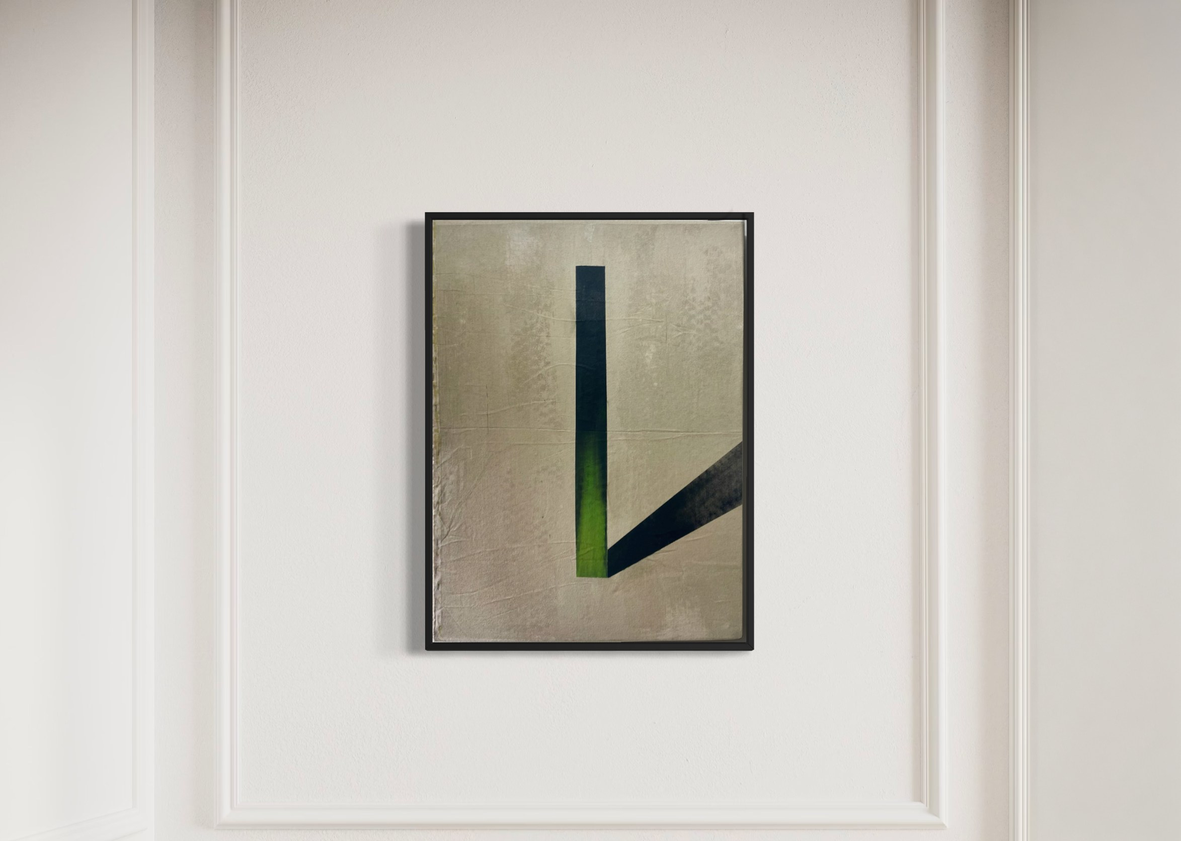
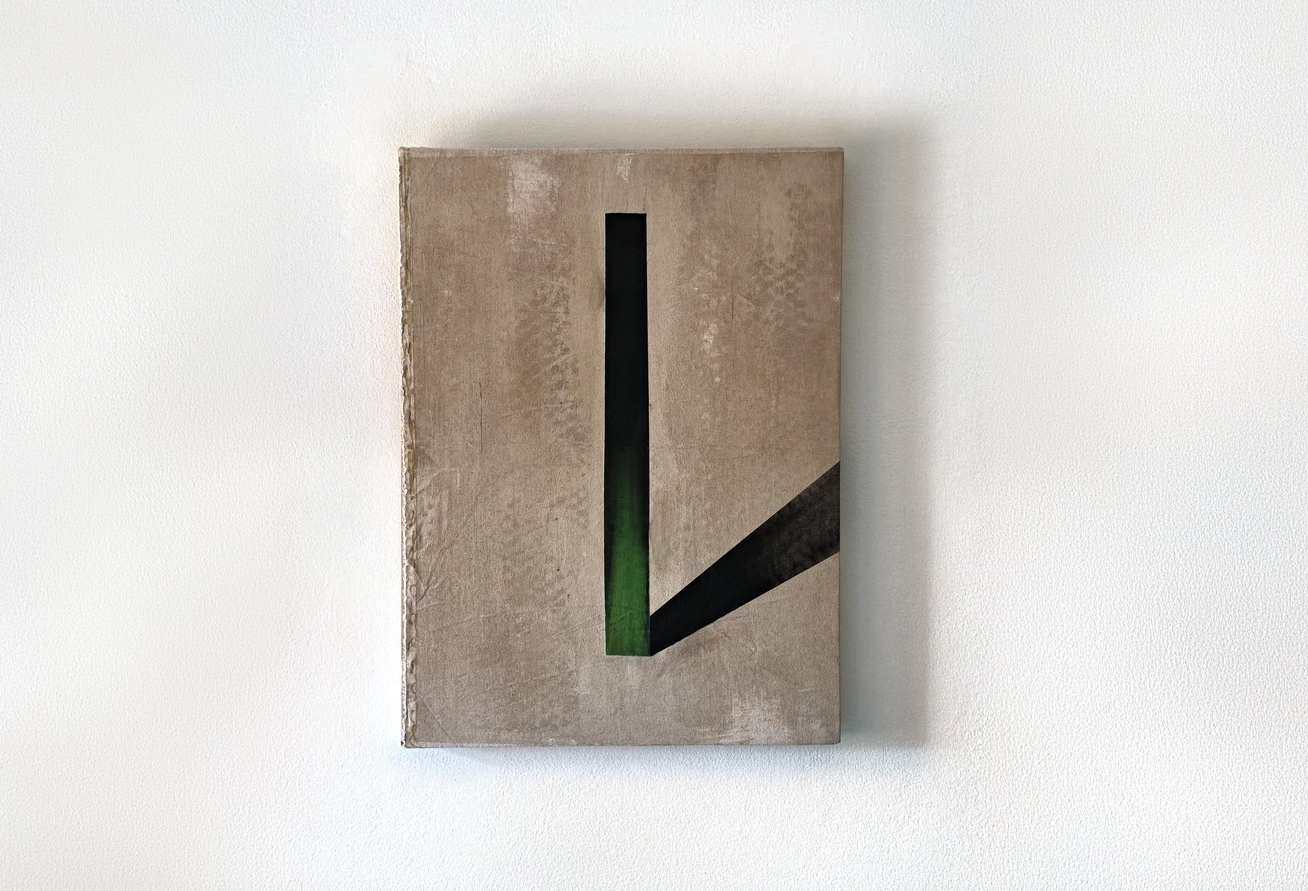
nov modifies

diff --git a/index.html b/index.html
@@ -233,8 +233,8 @@
 <section class="hero">
     <a class="hero-image" href="monolith.html" aria-label="View Monolith by Federico Boni">
         <img
-            src="images/federico-boni-home-hero.jpg?v=2"
-            alt="Monolith by Federico Boni, hanging in a living room — Featured Artist"
+            src="images/federico-boni-home-hero.jpg?v=4"
+            alt="Monolith by Federico Boni, hanging on a white gallery wall — Featured Artist"
         >
     </a>
     <div class="hero-text">
@@ -280,37 +280,21 @@
             <div class="editorial-artist-grid">
                 <!-- Artist 1 -->
                 <a
-                    href="tim-fry.html"
+                    href="sean-loch.html"
                     class="editorial-artist-card"
-                    aria-label="View Tim Fry"
+                    aria-label="View Sean Loch"
                 >
                     <div class="editorial-image">
                         <img
-                            src="images/tim-fry2.jpg"
-                            alt="Artist Tim Fry"
+                            src="images/sean-loch-home.jpg"
+                            alt="Double Dare by Sean Loch"
                         >
                     </div>
                     <h3>
-                        Tim Fry
+                        Sean Loch
                     </h3>
                 </a>
                 <!-- Artist 2 -->
-                <a
-                    href="audrey-rhoda.html"
-                    class="editorial-artist-card"
-                    aria-label="View Audrey Rhoda"
-                >
-                    <div class="editorial-image">
-                        <img
-                            src="images/audrey-rhoda2.jpg"
-                            alt="Artist Audrey Rhoda"
-                        >
-                    </div>
-                    <h3>
-                        Audrey Rhoda
-                    </h3>
-                </a>
-                <!-- Artist 3 -->
                 <a
                     href="jakey-pedro.html"
                     class="editorial-artist-card"
@@ -318,15 +302,15 @@
                 >
                     <div class="editorial-image">
                         <img
-                            src="images/jakey-pedro2.jpg"
-                            alt="Artist Jakey Pedro"
+                            src="images/jakey-pedro-home.jpg?v=2"
+                            alt="In the Garden by Jakey Pedro"
                         >
                     </div>
                     <h3>
                         Jakey Pedro
                     </h3>
                 </a>
-                <!-- Artist 4 -->
+                <!-- Artist 3 -->
                 <a
                     href="alessandro-daquila.html"
                     class="editorial-artist-card"
@@ -334,15 +318,15 @@
                 >
                     <div class="editorial-image">
                         <img
-                            src="images/alessandro-daquila2.jpg"
-                            alt="Artist Alessandro D'Aquila"
+                            src="images/alessandro-daquila-home.jpg?v=2"
+                            alt="Mailied by Alessandro D&#39;Aquila"
                         >
                     </div>
                     <h3>
                         Alessandro D'Aquila
                     </h3>
                 </a>
-                <!-- Artist 5 -->
+                <!-- Artist 4 -->
                 <a
                     href="federico-boni.html"
                     class="editorial-artist-card"
@@ -350,31 +334,15 @@
                 >
                     <div class="editorial-image">
                         <img
-                            src="images/federico-boni2.jpg"
-                            alt="Artist Federico Boni"
+                            src="images/federico-boni-home.jpg"
+                            alt="Medusa II by Federico Boni"
                         >
                     </div>
                     <h3>
                         Federico Boni
                     </h3>
                 </a>
-                <!-- Artist 6 -->
-                <a
-                    href="sean-loch.html"
-                    class="editorial-artist-card"
-                    aria-label="View Sean Loch"
-                >
-                    <div class="editorial-image">
-                        <img
-                            src="images/sean-loch2.jpg"
-                            alt="Artist Sean Loch"
-                        >
-                    </div>
-                    <h3>
-                        Sean Loch
-                    </h3>
-                </a>
- <!-- Artist 7 -->
+                <!-- Artist 5 -->
                 <a
                     href="pablo-martin.html"
                     class="editorial-artist-card"
@@ -382,11 +350,43 @@
                 >
                     <div class="editorial-image">
                         <img
-                            src="images/pablo-martin2.jpg"
-                            alt="Artist Pablo Martín"
+                            src="images/pablo-martin-home.jpg"
+                            alt="Little Drawing Fifteen by Pablo Martín"
                         >
                     </div>
                     <h3>Pablo Martín
+                    </h3>
+                </a>
+                <!-- Artist 6 -->
+                <a
+                    href="tim-fry.html"
+                    class="editorial-artist-card"
+                    aria-label="View Tim Fry"
+                >
+                    <div class="editorial-image">
+                        <img
+                            src="images/tim-fry-home.jpg"
+                            alt="I&#39;m So Fancy by Tim Fry"
+                        >
+                    </div>
+                    <h3>
+                        Tim Fry
+                    </h3>
+                </a>
+                <!-- Artist 7 -->
+                <a
+                    href="audrey-rhoda.html"
+                    class="editorial-artist-card"
+                    aria-label="View Audrey Rhoda"
+                >
+                    <div class="editorial-image">
+                        <img
+                            src="images/audrey-rhoda-home.jpg"
+                            alt="Until Further Notice by Audrey Rhoda"
+                        >
+                    </div>
+                    <h3>
+                        Audrey Rhoda
                     </h3>
                 </a>
             </div>
@@ -468,16 +468,16 @@
                 <!-- Artwork 2 -->
                 <article class="work-card">
                     <a
-                        href="stay-a-little-longer.html"
+                        href="double-dare.html"
                         class="work-image-link"
                     >
                         <img
-                            src="images/stay-a-little-longer-card.jpg"
-                            alt="Stay a Little Longer by Sean Loch"
+                            src="images/double-dare-card.jpg"
+                            alt="Double Dare by Sean Loch"
                         >
                     </a>
                     <h3>
-                        Stay a Little Longer
+                        Double Dare
                     </h3>
                     <p>
                         Sean Loch

diff --git a/original-artworks.html b/original-artworks.html
@@ -1800,14 +1800,14 @@
 </div>
 <div class="artwork-info"><h3>SOLO VOYAGE</h3><p>Sean Loch</p><span>SOLD
                         </span></div>
-</a><a class="artwork-card" data-artist="sean-loch" data-availability="available" data-medium="painting" data-price="3600" data-size="large" data-title="stay a little longer" data-year="2026" href="stay-a-little-longer.html">
+</a><a class="artwork-card" data-artist="sean-loch" data-availability="sold" data-medium="painting" data-price="3600" data-size="large" data-title="stay a little longer" data-year="2026" href="stay-a-little-longer.html">
 <div class="artwork-image">
 <img alt="Stay a Little Longer by Sean Loch" class="active" src="images/sean-loch-artwork-14-1.jpg"/>
 <img alt="Stay a Little Longer displayed in a room" src="images/sean-loch-artwork-14-2.jpg"/>
 <img alt="Detail of Stay a Little Longer" src="images/sean-loch-artwork-14-3.jpg"/>
 <img alt="Side view of Stay a Little Longer" src="images/sean-loch-artwork-14-4.jpg"/>
 </div>
-<div class="artwork-info"><h3>STAY A LITTLE LONGER</h3><p>Sean Loch</p><span>3600 AUD</span></div>
+<div class="artwork-info"><h3>STAY A LITTLE LONGER</h3><p>Sean Loch</p><span>SOLD</span></div>
 </a><a class="artwork-card" data-artist="tim-fry" data-availability="available" data-medium="sculpture" data-price="475" data-size="small" data-title="staying alive" data-year="2025" href="staying-alive.html">
 <div class="artwork-image">
 <img alt="Staying Alive by Tim Fry" class="active" src="images/tim-fry-artwork-20-1.jpg"/>

diff --git a/artists.html b/artists.html
@@ -308,23 +308,13 @@
 
         <section class="artists-list">
 
-    <a href="tim-fry.html" class="artist-row">
+    <a href="sean-loch.html" class="artist-row">
 
         <div class="artist-row-image">
-           <img src="images/tim-fry.jpg" alt="Tim Fry">
+            <img src="images/sean-loch.jpg" alt="Sean Loch">
         </div>
 
-        <h2>Tim Fry</h2>
-
-    </a>
-
-    <a href="audrey-rhoda.html" class="artist-row">
-
-        <div class="artist-row-image">
-            <img src="images/audrey-rhoda.jpg" alt="Audrey Rhoda">
-        </div>
-
-        <h2>Audrey Rhoda</h2>
+        <h2>Sean Loch</h2>
 
     </a>
 
@@ -358,16 +348,27 @@
 
     </a>
 
-    <a href="sean-loch.html" class="artist-row">
+    <a href="audrey-rhoda.html" class="artist-row">
 
         <div class="artist-row-image">
-            <img src="images/sean-loch.jpg" alt="Sean Loch">
+            <img src="images/audrey-rhoda.jpg" alt="Audrey Rhoda">
         </div>
 
-        <h2>Sean Loch</h2>
+        <h2>Audrey Rhoda</h2>
 
     </a>
- <a href="pablo-martin.html" class="artist-row">
+
+    <a href="tim-fry.html" class="artist-row">
+
+        <div class="artist-row-image">
+           <img src="images/tim-fry.jpg" alt="Tim Fry">
+        </div>
+
+        <h2>Tim Fry</h2>
+
+    </a>
+
+    <a href="pablo-martin.html" class="artist-row">
 
         <div class="artist-row-image">
             <img src="images/pablo-martin.jpg" alt="Pablo Martín">

diff --git a/sean-loch.html b/sean-loch.html
@@ -654,7 +654,7 @@ Music is an essential part of my practice. Every painting is created to a soundt
 </div>
 </a>
 <!-- ARTWORK 2 -->
-<a class="artwork-card" data-artist="sean-loch" data-availability="available" data-medium="painting" data-price="3600" data-size="large" data-title="stay a little longer" data-year="2026" href="stay-a-little-longer.html">
+<a class="artwork-card" data-artist="sean-loch" data-availability="sold" data-medium="painting" data-price="3600" data-size="large" data-title="stay a little longer" data-year="2026" href="stay-a-little-longer.html">
 <div class="artwork-image">
 <img alt="Stay a little longer by Sean Loch" class="active" src="images/sean-loch-artwork-14-1.jpg"/>
 <img alt="Stay a little longer displayed in a room" src="images/sean-loch-artwork-14-2.jpg"/>
@@ -672,11 +672,7 @@ Music is an essential part of my practice. Every painting is created to a soundt
                             Sean Loch
 
                         </p>
-<span>
-
-                            3600 AUD
-
-                        </span>
+<span>SOLD</span>
 </div>
 </a>
 <!-- ARTWORK 3 -->

diff --git a/stay-a-little-longer.html b/stay-a-little-longer.html
@@ -283,7 +283,7 @@
 <!-- PRICE -->
 <p class="single-artwork-price">
 
-                    3600 AUD
+                    SOLD
 
                 </p>
 <!-- =====================================================
